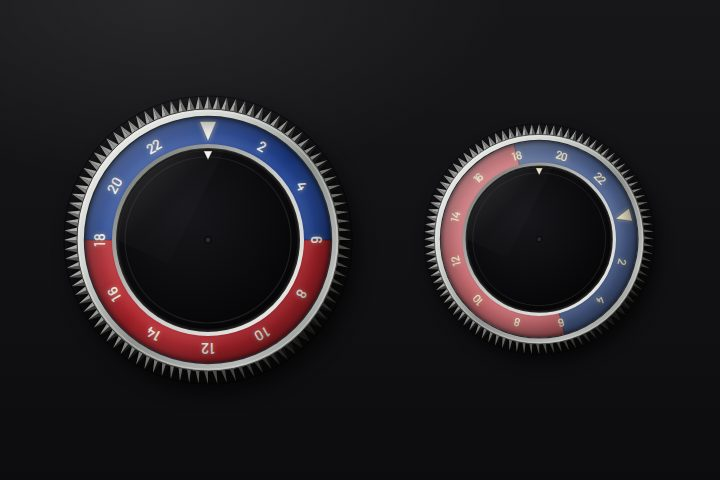
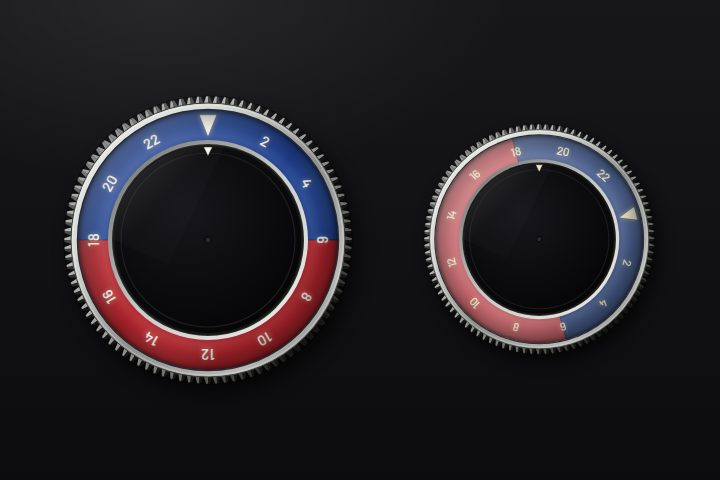
zankyo controls: build snapshot (dev-only)
Claude-Session: https://claude.ai/code/session_01HtkzWwXGAhnCfpdAxyNomu

Changed region(s): [[0.0917, 0.1875, 0.4889, 0.8125], [0.5806, 0.25, 0.9167, 0.75]]

diff --git a/art/zankyo/controls/controls/combo-dial-sg-6730.html b/art/zankyo/controls/controls/combo-dial-sg-6730.html
@@ -1,0 +1,364 @@
+<!DOCTYPE html>
+<html lang="en">
+<head>
+<meta charset="utf-8">
+<meta name="viewport" content="width=device-width, initial-scale=1">
+<title>Sargent &amp; Greenleaf 6730 safe dial — CONTROLS</title>
+<link rel="preconnect" href="https://fonts.googleapis.com">
+<link rel="preconnect" href="https://fonts.gstatic.com" crossorigin>
+<link href="https://fonts.googleapis.com/css2?family=JetBrains+Mono:wght@400;500&family=Orbitron:wght@500;700&family=Shippori+Mincho:wght@500&family=Barlow:wght@500;700&display=swap" rel="stylesheet">
+<link rel="stylesheet" href="../stage.css">
+<script type="application/json" id="sk-meta">
+{
+  "id": "combo-dial-sg-6730",
+  "element": "sk-combo-sg-6730",
+  "name": "Sargent & Greenleaf 6730 black dial with two indices",
+  "kind": "input",
+  "code": "A13",
+  "type": "Combination dial (safe)",
+  "source": "Sargent & Greenleaf 6730 Group 2 safe dial and ring: black spun-aluminium dial, bright chamfer, knurled edge, 0–99 engraved, fixed ring with an opening index at 12 and a changing index at 11",
+  "era": "1960s",
+  "origin": "USA",
+  "materials": ["spun aluminium", "black anodising", "engraved numerals", "painted steel door"],
+  "tags": ["safe", "lock", "combination", "endless", "0-99", "inertia", "knurl"],
+  "value": { "model": "delta", "min": 0, "max": 99, "step": 1, "unit": "" },
+  "attributes": ["value", "combination", "phase", "label", "scale", "disabled"],
+  "events": ["input", "change", "open"],
+  "size": { "w": 124, "h": 124 },
+  "notes": "One dial at 50; a second at 0 with combination=\"25-50-75\" and the sequence half done (phase 2: two turns left to 75 will do it). Drag round the dial; it coasts a little. Left (anticlockwise) increases the number."
+}
+</script>
+</head>
+<body>
+<header class="sk-head"></header>
+<div class="sk-stage-wrap">
+  <main class="sk-stage" data-panel="grey-enamel">
+    <sk-combo-sg-6730 value="50" label="SAFE"></sk-combo-sg-6730>
+    <sk-combo-sg-6730 value="0" combination="25-50-75" phase="2" label="SAFE, COMBINATION SET" scale="0.8"></sk-combo-sg-6730>
+  </main>
+</div>
+<aside class="sk-bench"></aside>
+<section class="sk-notes">
+  <h2>THE SOURCE</h2>
+  <p>The <b>Sargent &amp; Greenleaf 6730</b> is the dial on most of the safes in most of the back offices of the world:
+  a black spun-aluminium dial, 0 to 99 engraved white around a face that shows a faint circular brushing when the
+  light catches it, a bright chamfer stepping down to a knurled edge for the thumb, sitting in a black ring bolted to
+  the door. The ring carries two white marks: the opening index at 12, and, at 11, the changing index that only
+  locksmiths use — the second mark is how you know it is a 6730.</p>
+  <p><b>The tells kept here:</b> both indices, the opening one heavier; numerals every 5 with a tick every unit and a
+  bolder 0, engraved as white fill over a hair of dark shadow and standing radially; the spun sheen as fine
+  concentric rings that turn with the dial under a highlight that does not; the chamfer as a bright ring lit
+  top-left and dark bottom-right; the knurl as ninety-six ridges whose light and dark faces are shaded by where
+  they sit under the lamp, with a thumb-polished patch on the edge; a flat centre disc with a slotted spindle screw;
+  a grime halo on the grey door around the ring. Drag follows the pointer's angle and the dial coasts for a
+  moment; the wheel and arrows step one number (Shift ten); Home and End go to 0 and 99. With
+  <code>combination="25-50-75"</code> the element counts the classic 4 left / 3 right / 2 left / 1 right and fires
+  <code>open</code>; a wrong direction or an overshoot starts you over, as the lock would.</p>
+  <p><b>Left out:</b> the spline key hole in the dial's edge, the ring's mounting screws under the dial, the lock's clicks.</p>
+</section>
+<script id="sk-element">
+/* ==== <sk-combo-sg-6730> — S&G 6730 style safe dial, 0–99, endless, with two indices ====
+   attributes: value (0…99 under the opening index) combination ("25-50-75" → tracks 4L/3R/2L/1R and emits open)
+               phase (0…4, reflected while a combination is tracked) label scale disabled
+   events: input {value, delta} while turning, change {value, delta: 0} when it stops, open {value}
+   self-contained: paste this block into any page and use <sk-combo-sg-6730 value="50"></sk-combo-sg-6730> */
+(function () {
+  if (customElements.get("sk-combo-sg-6730")) return;
+  const W = 124, H = 124, C = 62;
+  const P = (r, a) => { const t = a * Math.PI / 180; return [C + r * Math.sin(t), C - r * Math.cos(t)]; };
+  const ann = (r1, r2) => `M ${C - r1} ${C} A ${r1} ${r1} 0 1 0 ${C + r1} ${C} A ${r1} ${r1} 0 1 0 ${C - r1} ${C} Z M ${C - r2} ${C} A ${r2} ${r2} 0 1 0 ${C + r2} ${C} A ${r2} ${r2} 0 1 0 ${C - r2} ${C} Z`;
+  // knurl: 96 ridges, each a light face and a dark face
+  let knurl = "";
+  for (let i = 0; i < 96; i++) {
+    const a = i * 3.75, [x1, y1] = P(42.6, a), [x2, y2] = P(46.4, a), [x3, y3] = P(42.6, a + 1.7), [x4, y4] = P(46.4, a + 1.7);
+    knurl += `<line x1="${x1.toFixed(2)}" y1="${y1.toFixed(2)}" x2="${x2.toFixed(2)}" y2="${y2.toFixed(2)}" stroke="#8c8d8a"/><line x1="${x3.toFixed(2)}" y1="${y3.toFixed(2)}" x2="${x4.toFixed(2)}" y2="${y4.toFixed(2)}" stroke="#1a1b1d"/>`;
+  }
+  // spun sheen: fine concentric rings of slightly varying brightness
+  let spun = "";
+  for (let r = 8; r < 39.5; r += 0.9) { const k = (Math.sin(r * 7.3) + Math.sin(r * 2.1)) * 0.5; spun += `<circle cx="${C}" cy="${C}" r="${r.toFixed(2)}" fill="none" stroke="${k > 0 ? "#fff" : "#000"}" stroke-opacity="${(0.025 + Math.abs(k) * 0.05).toFixed(3)}" stroke-width="0.6"/>`; }
+  // ticks and numerals
+  let ticks = "", nums = "";
+  for (let i = 0; i < 100; i++) {
+    const a = i * 3.6, maj = i % 5 === 0, [x1, y1] = P(maj ? 34.4 : 36, a), [x2, y2] = P(38.3, a);
+    ticks += `<line x1="${x1.toFixed(2)}" y1="${y1.toFixed(2)}" x2="${x2.toFixed(2)}" y2="${y2.toFixed(2)}" stroke-width="${maj ? 0.9 : 0.6}"/>`;
+    if (maj) nums += `<text class="n${i === 0 ? " z" : ""}" x="${C}" y="${C - 29.6}" transform="rotate(${a} ${C} ${C})">${i}</text>`;
+  }
+  const TPL = document.createElement("template");
+  TPL.innerHTML = `
+  <style>
+    :host { display: inline-block; width: ${W}px; height: ${H}px; position: relative; -webkit-tap-highlight-color: transparent; font-size: 10px; }
+    :host([hidden]) { display: none; }
+    .wrap { position: absolute; inset: 0; transform-origin: 0 0; }
+    svg { position: absolute; inset: 0; display: block; width: ${W}px; height: ${H}px; overflow: visible; }
+    .rot { transform-origin: ${C}px ${C}px; transform-box: view-box; }
+    .rot.snap { transition: transform 140ms cubic-bezier(.2,.8,.3,1.05); }
+    .grab { position: absolute; left: 15px; top: 15px; width: 94px; height: 94px; border-radius: 50%; cursor: grab;
+      touch-action: none; user-select: none; -webkit-user-select: none; outline: none; }
+    .grab.drag { cursor: grabbing; }
+    :host([disabled]) .grab { cursor: default; }
+    .grab:focus-visible { box-shadow: 0 0 0 2px #16e0e0, 0 0 10px rgba(22,224,224,0.6); }
+    text.n { font-family: "Barlow", "Helvetica Neue", Arial, sans-serif; font-weight: 500; font-size: 6.5px; text-anchor: middle; dominant-baseline: central; }
+    text.n.z { font-weight: 700; font-size: 7.2px; }
+    .label { font-family: "Barlow", Arial, sans-serif; font-weight: 500; font-size: 5.5px; letter-spacing: 0.22em; fill: var(--ink, #1c1f21); text-anchor: middle; opacity: 0.8; }
+  </style>
+  <div class="wrap">
+    <svg viewBox="0 0 ${W} ${H}" aria-hidden="true">
+      <defs>
+        <linearGradient id="door" x1="0" y1="0" x2="1" y2="1">
+          <stop offset="0" stop-color="#979a97"/><stop offset="0.6" stop-color="#8a8d8a"/><stop offset="1" stop-color="#7a7d7a"/>
+        </linearGradient>
+        <radialGradient id="grime" cx="53%" cy="55%" r="52%">
+          <stop offset="0.66" stop-color="#5f625f" stop-opacity="0"/><stop offset="0.82" stop-color="#5f625f" stop-opacity="0.5"/><stop offset="1" stop-color="#6f726f" stop-opacity="0"/>
+        </radialGradient>
+        <linearGradient id="cham" x1="0" y1="0" x2="1" y2="1">
+          <stop offset="0" stop-color="#e6e7e4"/><stop offset="0.35" stop-color="#c2c3c0"/><stop offset="0.65" stop-color="#8e8f8c"/><stop offset="1" stop-color="#5c5d5a"/>
+        </linearGradient>
+        <linearGradient id="chamI" x1="1" y1="1" x2="0" y2="0">
+          <stop offset="0" stop-color="#d8d9d6"/><stop offset="0.5" stop-color="#8a8b88"/><stop offset="1" stop-color="#4a4b48"/>
+        </linearGradient>
+        <linearGradient id="ringf" x1="0" y1="0" x2="1" y2="1">
+          <stop offset="0" stop-color="#2c2d31"/><stop offset="0.5" stop-color="#202124"/><stop offset="1" stop-color="#141517"/>
+        </linearGradient>
+        <linearGradient id="knurlL" x1="0" y1="0" x2="1" y2="1">
+          <stop offset="0" stop-color="#fff" stop-opacity="0.32"/><stop offset="0.45" stop-color="#fff" stop-opacity="0"/><stop offset="0.6" stop-color="#000" stop-opacity="0"/><stop offset="1" stop-color="#000" stop-opacity="0.5"/>
+        </linearGradient>
+        <radialGradient id="face" cx="50%" cy="50%" r="50%">
+          <stop offset="0" stop-color="#26272b"/><stop offset="0.75" stop-color="#1d1e21"/><stop offset="1" stop-color="#151618"/>
+        </radialGradient>
+        <linearGradient id="faceL" x1="0" y1="0" x2="1" y2="1">
+          <stop offset="0" stop-color="#fff" stop-opacity="0.12"/><stop offset="0.5" stop-color="#fff" stop-opacity="0.02"/><stop offset="1" stop-color="#000" stop-opacity="0.18"/>
+        </linearGradient>
+        <radialGradient id="hub" cx="38%" cy="32%" r="70%">
+          <stop offset="0" stop-color="#3d3e42"/><stop offset="0.7" stop-color="#26272a"/><stop offset="1" stop-color="#141517"/>
+        </radialGradient>
+        <radialGradient id="screw" cx="35%" cy="30%" r="70%">
+          <stop offset="0" stop-color="#c9cac7"/><stop offset="0.6" stop-color="#7e7f7c"/><stop offset="1" stop-color="#3a3b39"/>
+        </radialGradient>
+        <filter id="f1" x="-20%" y="-20%" width="140%" height="140%"><feGaussianBlur stdDeviation="1"/></filter>
+        <filter id="f3" x="-20%" y="-20%" width="140%" height="140%"><feGaussianBlur stdDeviation="2.6"/></filter>
+        <filter id="fw" x="-30%" y="-30%" width="160%" height="160%"><feGaussianBlur stdDeviation="1.6"/></filter>
+        <g id="print"><g class="ticks">${ticks}</g>${nums}</g>
+      </defs>
+
+      <!-- the door: grey paint with a halo of grime around the ring -->
+      <rect width="${W}" height="${H}" fill="url(#door)"/>
+      <rect width="${W}" height="${H}" fill="url(#grime)"/>
+      <text class="label" x="${C}" y="${H - 1.5}"></text>
+
+      <!-- the fixed ring: proud of the door -->
+      <circle cx="${C + 2.5}" cy="${C + 3.5}" r="60" fill="#000" opacity="0.38" filter="url(#f3)"/>
+      <circle cx="${C + 1}" cy="${C + 1.5}" r="60" fill="#000" opacity="0.5" filter="url(#f1)"/>
+      <path d="${ann(60, 47.5)}" fill="url(#ringf)" fill-rule="evenodd"/>
+      <circle cx="${C}" cy="${C}" r="59.3" fill="none" stroke="url(#cham)" stroke-width="1.5"/>
+      <circle cx="${C}" cy="${C}" r="48.2" fill="none" stroke="url(#chamI)" stroke-width="1.3"/>
+      <!-- the well the dial sits in -->
+      <circle cx="${C}" cy="${C}" r="47.5" fill="#0c0d0e"/>
+      <!-- the two indices: opening at 12, changing at 11 -->
+      <line x1="${C}" y1="${C - 49.2}" x2="${C}" y2="${C - 57}" stroke="#f5f5f2" stroke-width="1.7" stroke-linecap="round"/>
+      <line x1="${P(49.2, -30)[0].toFixed(2)}" y1="${P(49.2, -30)[1].toFixed(2)}" x2="${P(55, -30)[0].toFixed(2)}" y2="${P(55, -30)[1].toFixed(2)}" stroke="#f5f5f2" stroke-width="1.1" stroke-linecap="round" opacity="0.9"/>
+
+      <!-- the dial: its shadow in the well, then the turning parts -->
+      <circle cx="${C + 1.2}" cy="${C + 1.8}" r="46.5" fill="#000" opacity="0.7" filter="url(#f1)"/>
+      <g class="rot">
+        <circle cx="${C}" cy="${C}" r="44.5" fill="#3a3b3d"/>
+        <g class="knurl" stroke-width="1.15">${knurl}</g>
+        <!-- thumb-worn brightness on the knurl (at 3 o'clock when the dial reads 0) -->
+        <path d="M ${P(44.5, 70).map(v => v.toFixed(2)).join(" ")} A 44.5 44.5 0 0 1 ${P(44.5, 110).map(v => v.toFixed(2)).join(" ")}" fill="none" stroke="#e8e9e6" stroke-width="3.2" stroke-opacity="0.45" stroke-linecap="round" filter="url(#fw)"/>
+        <circle cx="${C}" cy="${C}" r="39.5" fill="url(#face)"/>
+        <g class="spun">${spun}</g>
+        <g class="print-sh" fill="#000" stroke="#000" opacity="0.55" transform="translate(0.4 0.45)"><use href="#print"/></g>
+        <g class="print-hi" fill="#f2f2ee" stroke="#f2f2ee"><use href="#print"/></g>
+        <circle cx="${C}" cy="${C}" r="6.2" fill="url(#hub)" stroke="#0e0f10" stroke-width="0.5"/>
+        <circle cx="${C}" cy="${C}" r="2.6" fill="url(#screw)" stroke="#232424" stroke-width="0.4"/>
+        <line x1="${C - 2.1}" y1="${C - 0.9}" x2="${C + 2.1}" y2="${C + 0.9}" stroke="#1b1c1c" stroke-width="0.7"/>
+      </g>
+      <!-- fixed light: the knurl's shading, the chamfer, the face's sheen -->
+      <path d="${ann(46.6, 42.5)}" fill="url(#knurlL)" fill-rule="evenodd"/>
+      <circle cx="${C}" cy="${C}" r="46.5" fill="none" stroke="#0a0b0c" stroke-width="0.7" opacity="0.8"/>
+      <path d="${ann(42.5, 39.5)}" fill="url(#cham)" fill-rule="evenodd"/>
+      <circle cx="${C}" cy="${C}" r="39.4" fill="none" stroke="#000" stroke-opacity="0.45" stroke-width="0.6"/>
+      <circle cx="${C}" cy="${C}" r="39.5" fill="url(#faceL)"/>
+    </svg>
+    <div class="grab" role="slider" tabindex="0"></div>
+  </div>`;
+
+  class SkComboSG6730 extends HTMLElement {
+    static get observedAttributes() { return ["value", "combination", "phase", "label", "scale", "disabled"]; }
+    constructor() {
+      super();
+      this.attachShadow({ mode: "open" }).appendChild(TPL.content.cloneNode(true));
+      this._p = 0; this._scale = 1; this._w = 0; this._raf = 0; this._drag = null;
+      this._combo = null; this._st = { phase: 0, passes: 0, dir: 0, travel: 0 };
+      const $ = s => this.shadowRoot.querySelector(s);
+      this._wrap = $(".wrap"); this._grab = $(".grab"); this._rot = $(".rot"); this._label = $(".label");
+      ["_onDown", "_onMove", "_onUp", "_onWheel", "_onKey"].forEach(k => { this[k] = this[k].bind(this); });
+    }
+    connectedCallback() {
+      if (!this.hasAttribute("value")) this.setAttribute("value", "0");
+      this._readAttrs(); this._render();
+      const g = this._grab;
+      g.addEventListener("pointerdown", this._onDown);
+      g.addEventListener("wheel", this._onWheel, { passive: false });
+      g.addEventListener("keydown", this._onKey);
+    }
+    disconnectedCallback() {
+      const g = this._grab;
+      g.removeEventListener("pointerdown", this._onDown); g.removeEventListener("wheel", this._onWheel); g.removeEventListener("keydown", this._onKey);
+      this._stop(); clearTimeout(this._wt);
+    }
+    attributeChangedCallback(n, o, v) {
+      if (o === v || !this.isConnected) return;
+      if (n === "value") { const x = parseFloat(v); if (!isNaN(x) && this._mod(Math.round(x)) !== this.value) this.value = x; return; }
+      if (n === "phase") { const x = parseInt(v, 10); if (!isNaN(x) && x !== this._st.phase) { this._st = { phase: Math.max(0, Math.min(4, x)), passes: 0, dir: 0, travel: 0 }; this._render(); } return; }
+      this._readAttrs(); this._render();
+    }
+    get value() { return this._mod(Math.round(this._p)); }
+    set value(v) { v = parseFloat(v); if (isNaN(v)) return; this._stop(); this._p = Math.floor(this._p / 100) * 100 + this._mod(Math.round(v)); this._reflect(); this._render(); }
+    get scale() { return this._scale; }
+    set scale(s) { this.setAttribute("scale", String(s)); }
+    get phase() { return this._st.phase; }
+    focus() { this._grab.focus(); }
+
+    _mod(n) { return ((n % 100) + 100) % 100; }
+    _reflect() { this.setAttribute("value", String(this.value)); }
+    _readAttrs() {
+      const num = (n, d) => { const x = parseFloat(this.getAttribute(n)); return isNaN(x) ? d : x; };
+      this._p = Math.floor(this._p / 100) * 100 + this._mod(Math.round(num("value", this._p)));
+      this._scale = Math.max(0.2, num("scale", 1));
+      const c = (this.getAttribute("combination") || "").split(/[-\s,]+/).map(x => parseInt(x, 10)).filter(x => !isNaN(x)).map(x => this._mod(x));
+      this._combo = c.length === 3 ? c : null;
+      const ph = parseInt(this.getAttribute("phase"), 10);
+      if (!isNaN(ph)) this._st.phase = Math.max(0, Math.min(4, ph));
+      this._label.textContent = this.getAttribute("label") || "";
+      const g = this._grab;
+      g.setAttribute("aria-label", this.getAttribute("label") || "combination dial");
+      g.setAttribute("aria-valuemin", "0"); g.setAttribute("aria-valuemax", "99");
+      g.setAttribute("tabindex", this.hasAttribute("disabled") ? "-1" : "0");
+      g.setAttribute("aria-disabled", this.hasAttribute("disabled") ? "true" : "false");
+      this.style.width = (W * this._scale) + "px"; this.style.height = (H * this._scale) + "px";
+      this._wrap.style.transform = "scale(" + this._scale + ")";
+    }
+    _render() {
+      this._rot.style.transform = "rotate(" + (-this._p * 3.6).toFixed(2) + "deg)";
+      this._grab.setAttribute("aria-valuenow", String(this.value));
+      this._grab.setAttribute("aria-valuetext", String(this.value) + (this._combo ? ", step " + this._st.phase + " of 4" : ""));
+      if (this._combo && String(this._st.phase) !== this.getAttribute("phase")) this.setAttribute("phase", String(this._st.phase));
+      if (this._st.phase === 4) this.setAttribute("open", ""); else this.removeAttribute("open");
+    }
+    _emit(type, delta) {
+      this.dispatchEvent(new CustomEvent(type, { bubbles: true, composed: true, detail: { value: this.value, delta: delta } }));
+    }
+    /* move the dial by dn numbers (positive = anticlockwise = increasing) */
+    _move(dn, snap) {
+      if (!dn) return;
+      const before = Math.round(this._p), p0 = this._p;
+      this._p += dn;
+      this._rot.classList.toggle("snap", !!snap);
+      const after = Math.round(this._p);
+      this._track(p0, this._p);
+      this._render();
+      if (after !== before) { this._reflect(); this._emit("input", after - before); }
+    }
+    _settle() {
+      // come to rest on a whole number, as the eye reads it
+      this._p = Math.round(this._p); this._rot.classList.add("snap"); this._render();
+      const st = this._st, c = this._combo;
+      if (c && st.phase < 3) {
+        const need = [4, 3, 2][st.phase];
+        if (this.value === c[st.phase] && st.passes === need) { st.phase++; st.passes = 0; st.dir = 0; st.travel = 0; this._render(); }
+      }
+      this._emit("change", 0);
+    }
+    /* the combination tracker: 4L / 3R / 2L / 1R, wrong direction or overshoot starts over */
+    _track(p0, p1) {
+      const c = this._combo; if (!c || p1 === p0) return;
+      const st = this._st, dir = p1 > p0 ? 1 : -1;
+      const want = [1, -1, 1, -1][Math.min(3, st.phase)];
+      if (st.phase === 4) { if (dir === 1 && p1 - p0 > 0) { st.travel += p1 - p0; if (st.travel > 3) { st.phase = 0; st.passes = 0; st.dir = 0; st.travel = 0; } } return; }
+      if (dir !== want) { if (st.phase !== 0 || st.passes) { st.phase = 0; st.passes = 0; } st.dir = 0; st.travel = 0; return; }
+      st.dir = dir;
+      if (st.phase < 3) {
+        const t = c[st.phase];
+        const k0 = Math.floor((dir === 1 ? p0 - t : t - p0) / 100), k1 = Math.floor((dir === 1 ? p1 - t : t - p1) / 100);
+        st.passes += k1 - k0;
+        if (st.passes > [4, 3, 2][st.phase]) { st.phase = 0; st.passes = 0; }
+      } else {
+        st.travel += p0 - p1;
+        const gate = ((c[2] - 95) % 100 + 100) % 100 || 100;
+        if (st.travel >= gate) { st.phase = 4; st.travel = 0; this.dispatchEvent(new CustomEvent("open", { bubbles: true, composed: true, detail: { value: this.value } })); }
+      }
+    }
+    _spin(w) {
+      this._w = w; let last = performance.now();
+      const step = now => {
+        const dt = Math.min(0.05, (now - last) / 1000); last = now;
+        this._w *= Math.exp(-dt / 0.22);
+        this._move(this._w * dt, false);
+        if (Math.abs(this._w) < 2) { this._w = 0; this._raf = 0; this._settle(); return; }
+        this._raf = requestAnimationFrame(step);
+      };
+      this._raf = requestAnimationFrame(step);
+    }
+    _stop() { if (this._raf) { cancelAnimationFrame(this._raf); this._raf = 0; } this._w = 0; }
+    _ang(e) { const r = this._grab.getBoundingClientRect(); return Math.atan2(e.clientX - (r.left + r.width / 2), -(e.clientY - (r.top + r.height / 2))) * 180 / Math.PI; }
+    _onDown(e) {
+      if (this.hasAttribute("disabled") || (e.button && e.button !== 0)) return;
+      e.preventDefault();
+      this._grab.focus({ preventScroll: true });
+      this._grab.setPointerCapture(e.pointerId);
+      this._grab.classList.add("drag");
+      this._stop();
+      this._drag = { a: this._ang(e), t: performance.now(), w: 0, moved: false };
+      this._grab.addEventListener("pointermove", this._onMove);
+      this._grab.addEventListener("pointerup", this._onUp); this._grab.addEventListener("pointercancel", this._onUp);
+    }
+    _onMove(e) {
+      const d = this._drag; if (!d) return;
+      const a = this._ang(e); let da = a - d.a; da = ((da + 540) % 360) - 180; d.a = a;
+      const now = performance.now(), dt = Math.max(4, now - d.t) / 1000; d.t = now;
+      const dn = -da / 3.6;                                          // clockwise = numbers go down
+      d.w = d.w * 0.55 + (dn / dt) * 0.45;
+      if (dn) d.moved = true;
+      this._move(dn, false);
+    }
+    _onUp(e) {
+      const d = this._drag; if (!d) return;
+      this._grab.removeEventListener("pointermove", this._onMove);
+      this._grab.removeEventListener("pointerup", this._onUp); this._grab.removeEventListener("pointercancel", this._onUp);
+      try { this._grab.releasePointerCapture(e.pointerId); } catch (_) {}
+      this._grab.classList.remove("drag");
+      const stale = performance.now() - d.t > 90;
+      this._drag = null;
+      if (!stale && Math.abs(d.w) > 12) this._spin(Math.max(-250, Math.min(250, d.w)));
+      else if (d.moved) this._settle();
+    }
+    _onWheel(e) {
+      if (this.hasAttribute("disabled")) return;
+      e.preventDefault();
+      this._stop();
+      this._move((e.deltaY < 0 ? 1 : -1) * (e.shiftKey ? 10 : 1), true);
+      clearTimeout(this._wt); this._wt = setTimeout(() => this._settle(), 220);
+    }
+    _onKey(e) {
+      if (this.hasAttribute("disabled")) return;
+      const s = e.shiftKey ? 10 : 1; let dn;
+      switch (e.key) {
+        case "ArrowUp": case "ArrowRight": dn = s; break;
+        case "ArrowDown": case "ArrowLeft": dn = -s; break;
+        case "PageUp": dn = 10; break;
+        case "PageDown": dn = -10; break;
+        case "Home": dn = -this.value; break;
+        case "End": dn = 99 - this.value; break;
+        default: return;
+      }
+      e.preventDefault();
+      this._stop();
+      this._move(dn, true); this._settle();
+    }
+  }
+  customElements.define("sk-combo-sg-6730", SkComboSG6730);
+})();
+</script>
+<script src="../stage.js"></script>
+</body>
+</html>
